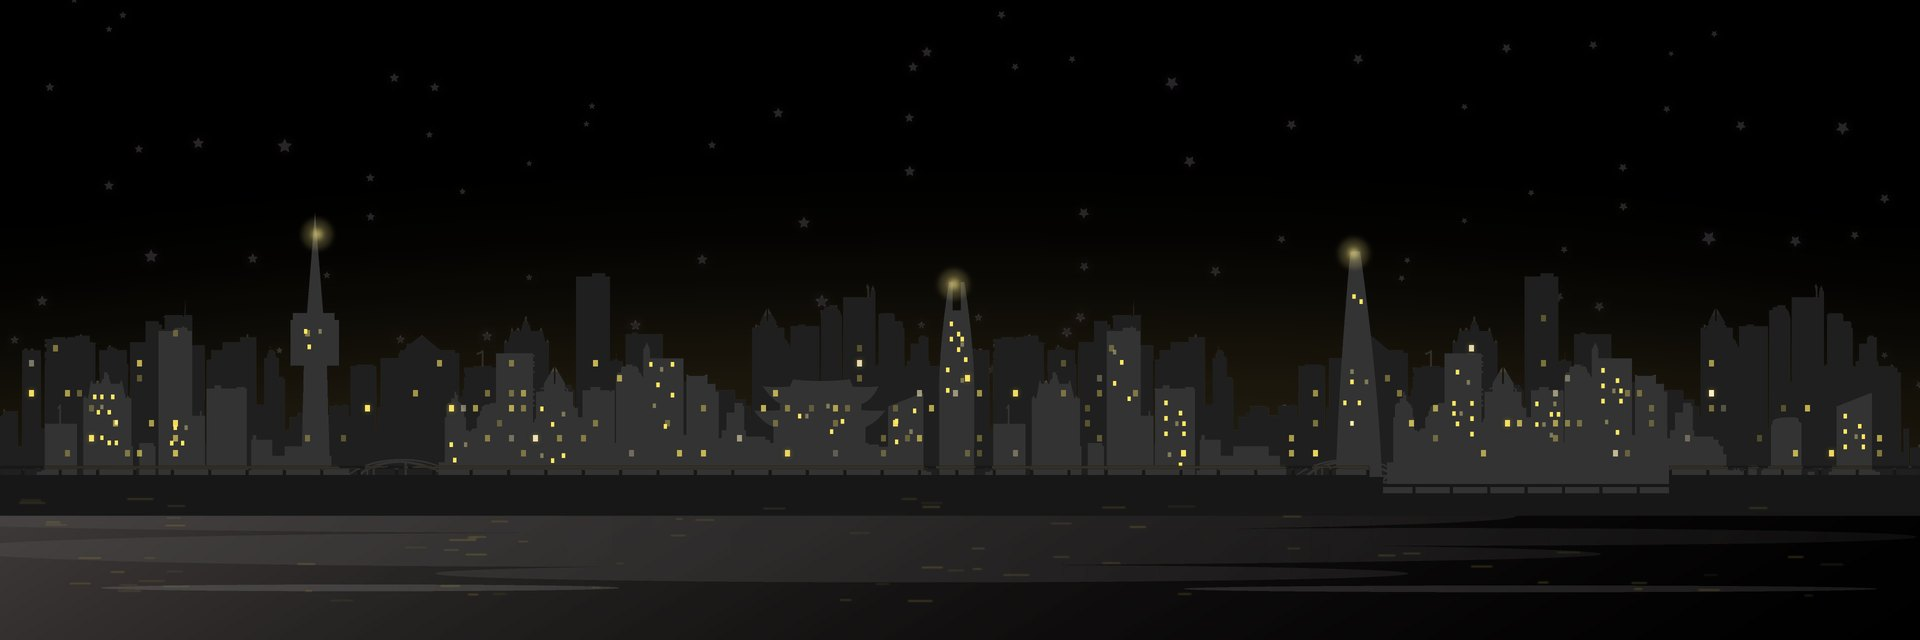
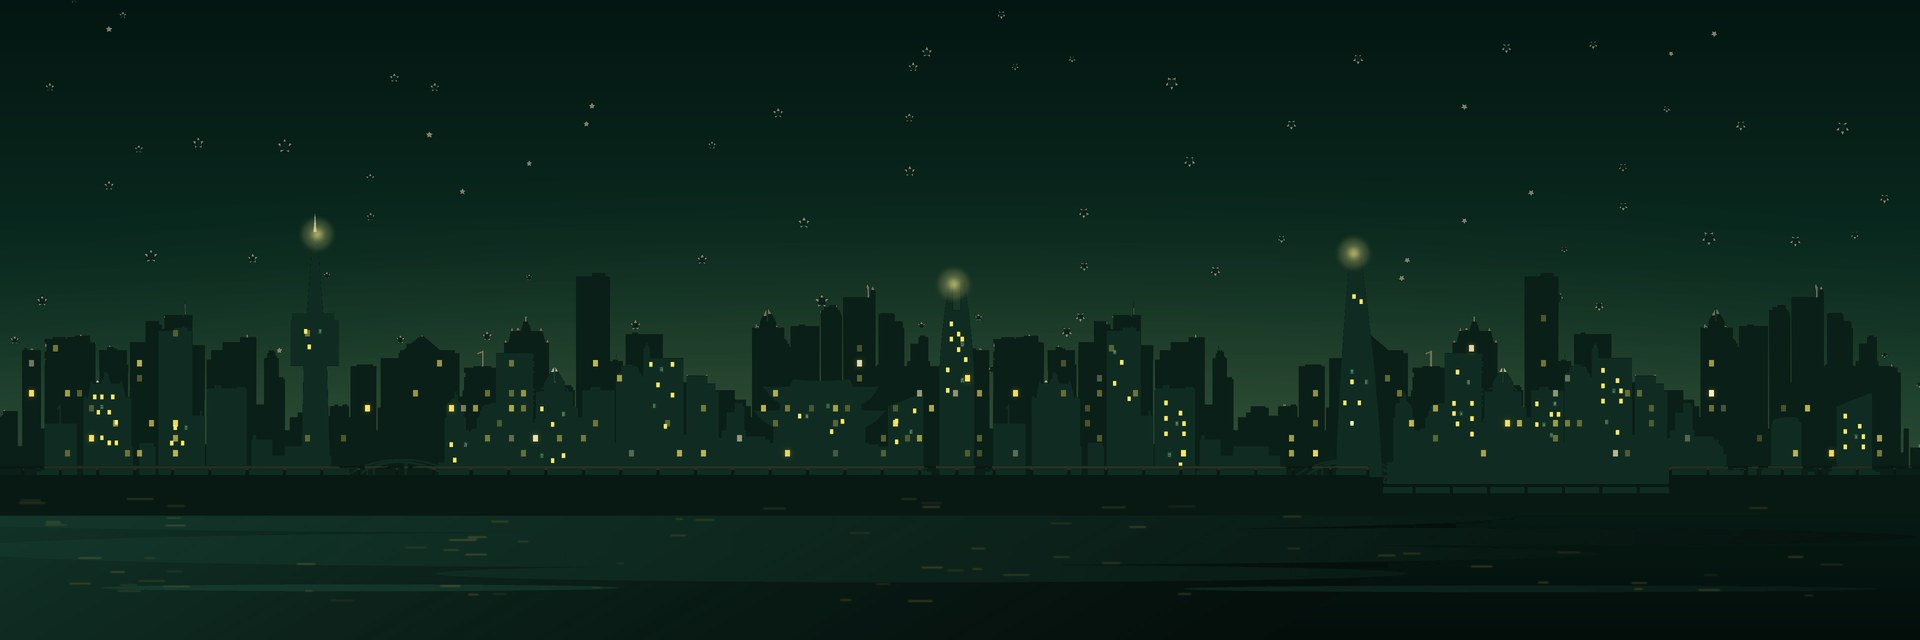
참여기업 페이지: 하단 초록 야경 적용, 랜드마크 불빛 반짝임, 하단 색 통일
Claude-Session: https://claude.ai/code/session_01UpnRaiZLCrd9p7X9G7FnaK

diff --git a/company/index.html b/company/index.html
@@ -190,17 +190,20 @@ details.ex ol{padding:0 24px 22px 46px;color:var(--sub);font-size:16px;display:g
 .faq details[open] summary:after{content:"–"}
 .faq details p{padding:0 0 22px 28px;color:var(--sub)}
 /* final */
-.final{background:#000;color:#fff;text-align:center;padding-bottom:0;position:relative;overflow:hidden}
-.sky{display:block;width:100%;height:auto;margin-top:-9vw;position:relative;z-index:0}
+.final{background:#041611;color:#fff;text-align:center;padding-bottom:0;position:relative;overflow:hidden}
+.skyw{position:relative;margin-top:-9vw;z-index:0}.sky{display:block;width:100%;height:auto}
+.tw{position:absolute;width:26px;height:26px;margin:-13px 0 0 -13px;border-radius:50%;background:radial-gradient(circle,rgba(255,240,170,.95) 0 18%,rgba(255,230,120,.35) 40%,transparent 70%);animation:tw 3.6s ease-in-out infinite}
+@keyframes tw{0%,100%{opacity:.35;transform:scale(.8)}50%{opacity:1;transform:scale(1.15)}}
+@media(prefers-reduced-motion:reduce){.tw{animation:none}}
 .final .wrap{position:relative;z-index:1}
-@media(max-width:640px){.sky{margin-top:24px;height:240px;object-fit:cover;object-position:center 62%}}
+@media(max-width:640px){.skyw{margin-top:24px;overflow:hidden}.sky{width:auto;height:240px;max-width:none;position:relative;left:50%;transform:translateX(-50%)}.tw{display:none}}
 .final h2{font-size:clamp(28px,3.8vw,42px)}
 .final .lead{color:#B9C2BD;margin:14px auto 30px}
 .final .ctas{display:flex;justify-content:center;gap:10px;flex-wrap:wrap}
 .contact{display:flex;justify-content:center;gap:10px 30px;flex-wrap:wrap;margin-top:40px;color:#B9C2BD;font-size:15px}
 .contact b{color:#fff;font-weight:500}
-footer{background:#141916}
-.org-bar{padding:32px 0;border-top:1px solid #2A332E}
+footer{background:#0A1A15}
+.org-bar{padding:32px 0;border-top:1px solid #16302A}
 .org-inner{display:flex;align-items:center;gap:28px}
 .org-logo{flex:none;width:200px;height:52px;border-radius:8px;background:#fff;display:flex;align-items:center;justify-content:center;padding:8px 12px}
 .org-logo img{max-width:100%;max-height:100%;object-fit:contain}
@@ -209,7 +212,7 @@ footer{background:#141916}
 .org-desc{font-size:14.5px;color:#B9C2BD;line-height:1.55;margin-bottom:8px}
 .org-meta{font-size:13px;color:#89928D;line-height:1.7}.org-meta a{color:#B9C2BD;text-decoration:none}.org-meta .sep{color:#4A544F;margin:0 8px}.nw{white-space:nowrap}
 .org-contact{flex:none}.org-contact h5{font-size:14px;font-weight:700;color:var(--y);margin-bottom:5px}.org-contact p{font-size:14px;color:rgba(255,255,255,.85);line-height:1.6}
-.org-copyright{background:#0F1311;text-align:center;padding:16px 20px;font-size:13px;color:#6E7873;line-height:1.6}
+.org-copyright{background:#06120E;text-align:center;padding:16px 20px;font-size:13px;color:#6E7873;line-height:1.6}
 .mbar{display:none}
 @media(max-width:960px){nav{display:none}header .btn{margin-left:auto}
 .hero .wrap,.sup,.rev-more{grid-template-columns:1fr}.hero .wrap{gap:28px}
@@ -361,7 +364,7 @@ header .btn{display:none}.org-copyright{padding-bottom:96px}.org-inner{flex-dire
 <h2>서울영커리언스와 함께 할 기업을 기다립니다</h2>
 <p class="lead"><span class="nw">인턴 급여 50% 지원</span> · <span class="nw">인재 매칭·선발 지원</span> · <span class="nw">기업당 최대 20명</span><br>접수 마감 2026. 12. 18.(금) 15:00</p>
 <div class="ctas"><a class="btn btn-y" href="https://seoulyoung.ninehire.site/job_posting/aYyrl2SQ" data-cta="final">참여 신청하기 →</a></div>
-</div><img class="sky" src="footer_sky.jpg" width="1920" height="640" alt=""></section>
+</div><div class="skyw"><img class="sky" src="footer_sky.jpg" width="1920" height="640" alt=""><i class="tw" style="left:16.5%;top:36.6%"></i><i class="tw" style="left:49.7%;top:44.4%;animation-delay:1.3s"></i><i class="tw" style="left:70.5%;top:39.6%;animation-delay:2.4s"></i></div></section>
 </main>
 <footer>
 <section class="org-bar"><div class="wrap org-inner">
